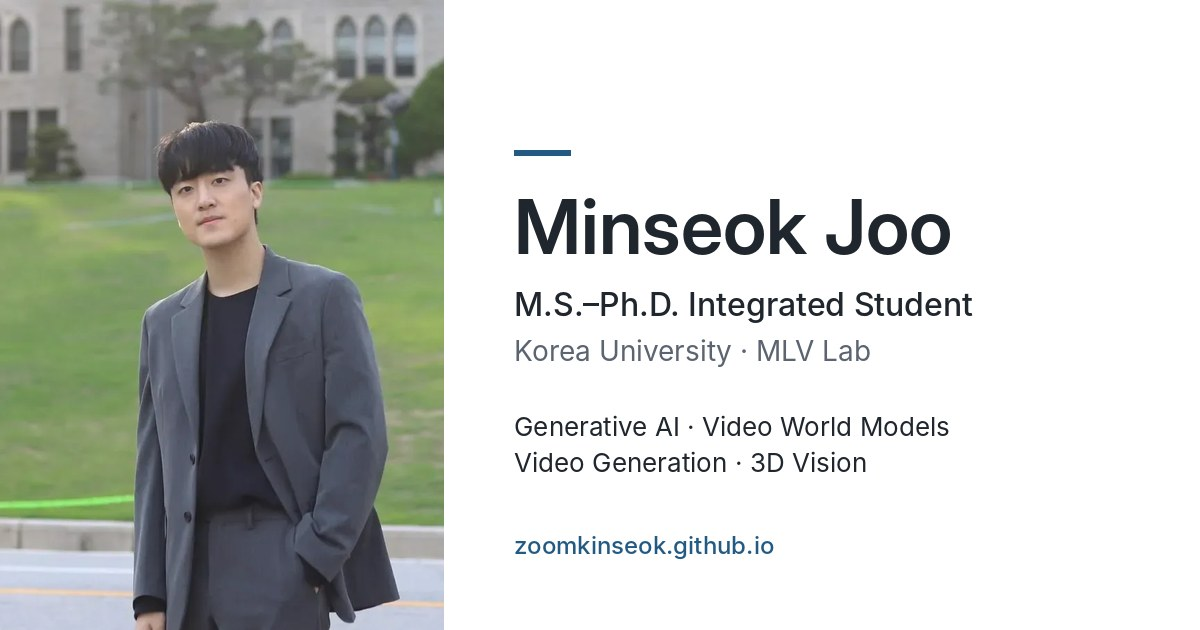
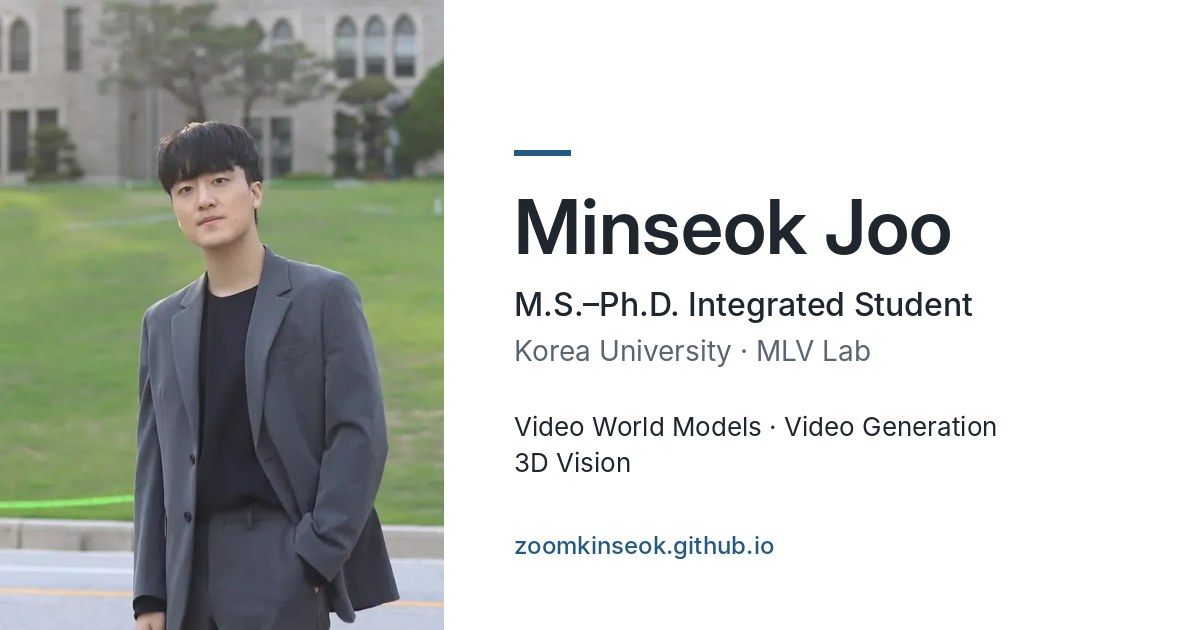
Update CV and align research interests with it
- Replace the CV with the proofread November 2026 version
- Use the CV's research-interest sentence in About and the site/page descriptions
- Refresh the link-preview card topics

Claude-Session: https://claude.ai/code/session_013XgxqZ3qAfEGUeGgB3itLq

Changed region(s): [[0.4317, 0.6635, 0.8325, 0.754]]

diff --git a/_pages/about.md b/_pages/about.md
@@ -2,7 +2,7 @@
 layout: academic
 permalink: /
 title: "About"
-description: "Minseok Joo is an M.S.-Ph.D. Integrated student at Korea University, interested in generative AI, video world models, video generation, and 3D vision."
+description: "Minseok Joo is an M.S.-Ph.D. Integrated student at Korea University, interested in generative and geometric models for understanding the physical world, with a focus on video world models, video generation, and 3D vision."
 redirect_from:
   - /about/
   - /about.html
@@ -11,7 +11,7 @@ redirect_from:
 <section id="about" class="about" aria-labelledby="about-heading">
   <h2 id="about-heading">About Me</h2>
   <p>I am an M.S.-Ph.D. Integrated student at Korea University, advised by <a href="https://scholar.google.com/citations?hl=en&amp;user=LfBoJt8AAAAJ&amp;view_op=list_works&amp;sortby=pubdate">Prof. Hyunwoo J. Kim</a> in the <a href="https://mlvlab.github.io/#/home">Machine Learning and Vision (MLV) Lab</a>.</p>
-  <p>I'm interested in <strong>generative AI</strong> for modeling the structure and dynamics of the real world, with a particular focus on <strong>video world models</strong>, <strong>video generation</strong>, and <strong>3D vision</strong>.</p>
+  <p>I'm interested in generative and geometric models for understanding the physical world, with a particular focus on <strong>video world models</strong>, <strong>video generation</strong>, and <strong>3D vision</strong>.</p>
   <p>Please feel free to <a href="mailto:{{ site.author.email }}">get in touch</a> about potential collaborations or research opportunities. You can also find my <a href="{{ site.author.cv_url | relative_url }}" target="_blank" rel="noopener" aria-label="CV (PDF, opens in a new tab)">CV</a> here.</p>
 </section>
 
